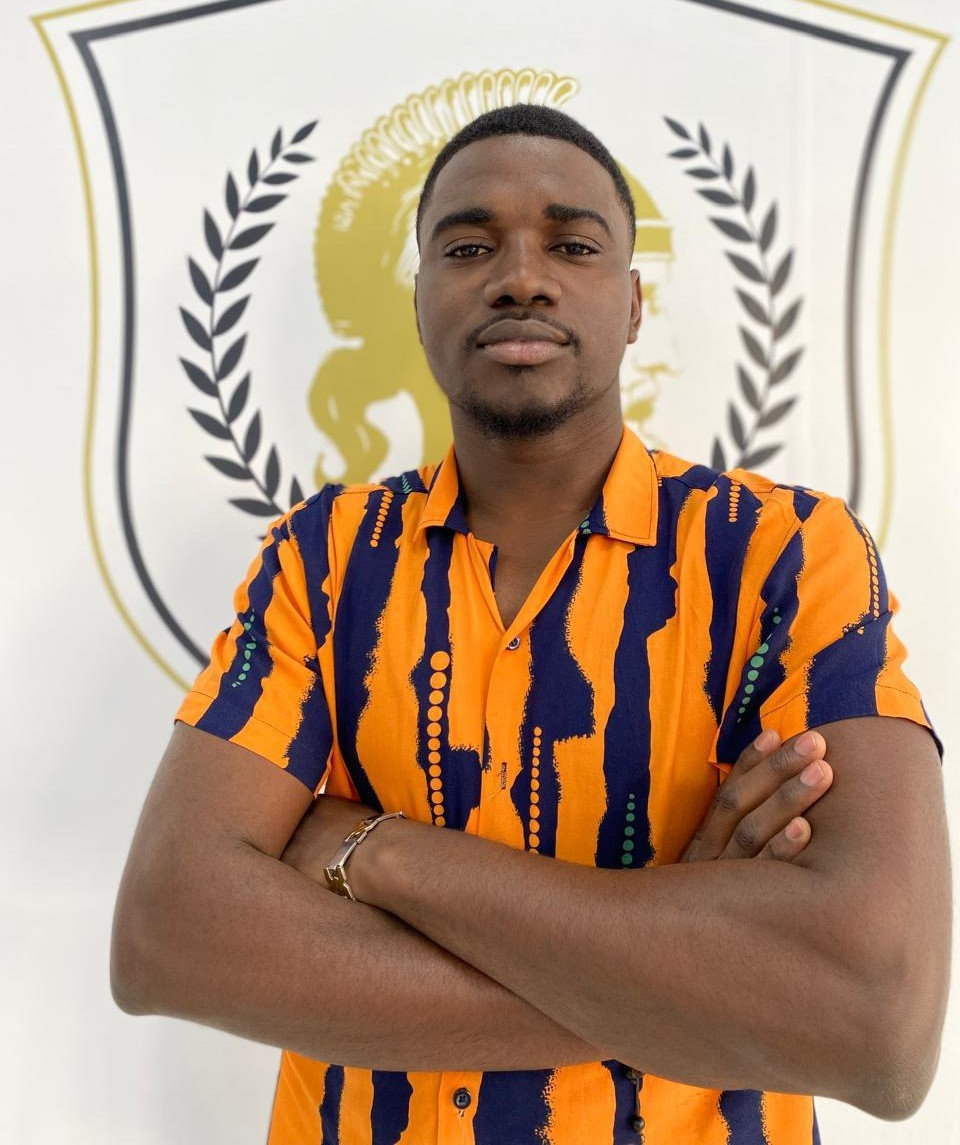
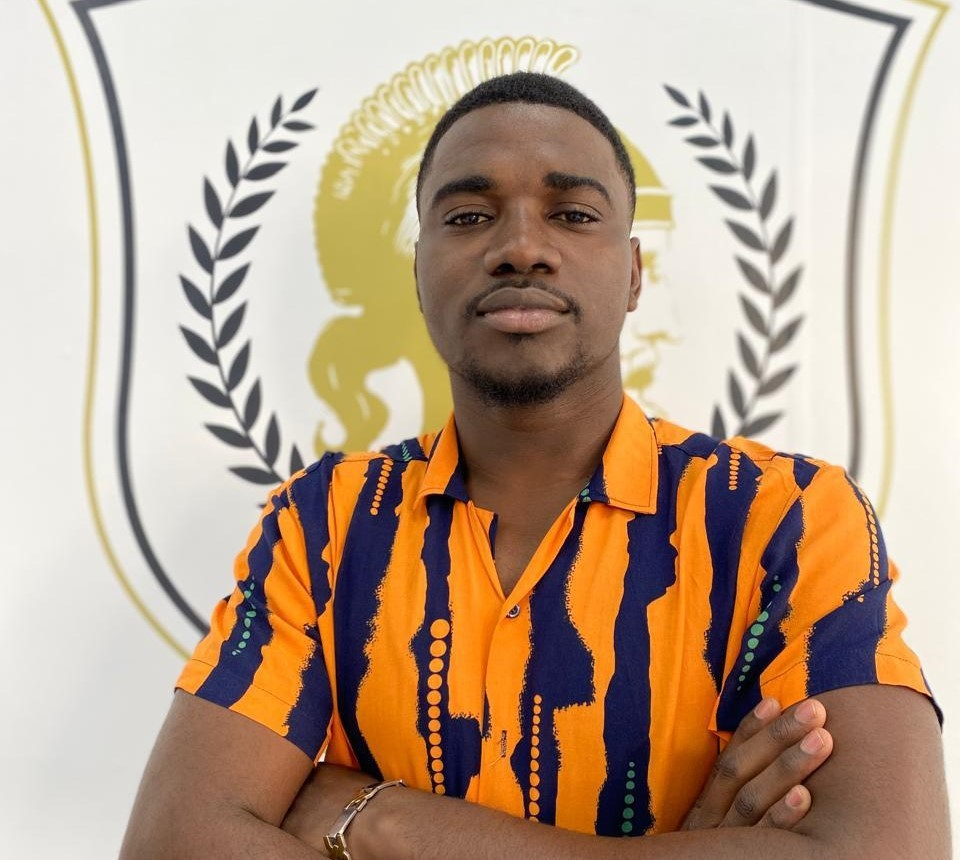
finalisation

diff --git a/src/components/About.jsx b/src/components/About.jsx
@@ -1,9 +1,12 @@
 import { FiBook, FiTarget, FiUsers } from "react-icons/fi";
-
+import Omar from "../assets/OMAR.jpg";
+import Oumou from "../assets/Oumou.jpg";
+import Ether from "../assets/Esther.jpg";
+import Martial from "../assets/Martial1.jpg";
 const About = () => {
   return (
     <section id="about" className="bg-green-100 py-16 ">
-      <div className="container mx-auto px-4">
+      <div className="container mx-auto px-4 mt-20">
         <h2 className="text-3xl md:text-4xl font-bold text-center mb-8 text-black uppercase">
           À propos de nous
         </h2>
@@ -47,29 +50,32 @@ const About = () => {
           </h3>
 
           {/* Liste des Membres de l'Équipe */}
-          <div className="grid md:grid-cols-3 sm:grid-cols-1 gap-8">
+          <div className="grid md:grid-cols-2 sm:grid-cols-1 gap-8">
             {/* Membre 1 */}
             <div className="bg-green-200 p-6 rounded-lg shadow-xl text-center">
               <img
-                src="../assets/OMAR.jpg"
-                alt="Membre 1"
-                className="w-24 h-24 mx-auto rounded-full mb-4"
+                src={Martial}
+                alt="Membre 4"
+                className="w-45 h-45 mx-auto rounded-full mb-4"
               />
-              <h4 className="text-xl font-semibold">Omar</h4>
-              <p className="text-gray-600">CEO et Co-Fondateur</p>
+              <h4 className="text-xl font-semibold">Martial De-Paul</h4>
+              <p className="text-gray-600">
+                CEO et Co-Fondateur et Responsable IT
+              </p>
               <p className="text-gray-700 mt-2">
-                Omar est passionné par l&apos;IOT par les technologies durables
-                et dirige YP avec une vision claire de l&apos;innovation
-                agricole.
+                Martial est responsable de la mise en œuvre des solutions
+                techniques d&apos;irrigation intelligente dans les exploitations
+                agricoles.
               </p>
             </div>
 
             {/* Membre 2 */}
+
             <div className="bg-green-200 p-6 rounded-lg shadow-xl text-center">
               <img
-                src="../assets/Oumou.jpg"
+                src={Oumou}
                 alt="Membre 2"
-                className="w-24 h-24 mx-auto rounded-full mb-4"
+                className="w-50 h-50 mx-auto rounded-full mb-4"
               />
               <h4 className="text-xl font-semibold">Oumou Coulibaly</h4>
               <p className="text-gray-600">Resposable Marketing</p>
@@ -83,33 +89,31 @@ const About = () => {
             {/* Membre 3 */}
             <div className="bg-green-200 p-6 rounded-lg shadow-xl text-center">
               <img
-                src="../assets/Esther.jpg"
+                src={Omar}
+                alt="Membre 1"
+                className="w-50 h-50 mx-auto rounded-full mb-4"
+              />
+              <h4 className="text-xl font-semibold">Omar</h4>
+              <p className="text-gray-600">CEO et Co-Fondateur</p>
+              <p className="text-gray-700 mt-2">
+                Omar est passionné par l&apos;IOT par les technologies durables
+                et dirige YP avec une vision claire de l&apos;innovation
+                agricole.
+              </p>
+            </div>
+
+            {/* Membre 4 (en dessous du deuxième membre sur les grands écrans) */}
+            <div className="bg-green-200 p-6 rounded-lg shadow-xl text-center">
+              <img
+                src={Ether}
                 alt="Membre 3"
-                className="w-24 h-24 mx-auto rounded-full mb-4"
+                className="w-50 h-50 mx-auto rounded-full mb-4"
               />
               <h4 className="text-xl font-semibold"> Yaouno Esther Togo </h4>
               <p className="text-gray-600">Chef de Produit</p>
               <p className="text-gray-700 mt-2">
                 Yaouno est responsable de la direction stratégique et du
                 développement des differentes campagnes.
-              </p>
-            </div>
-
-            {/* Membre 4 (en dessous du deuxième membre sur les grands écrans) */}
-            <div className="bg-green-200 p-6 rounded-lg shadow-xl text-center md:col-span-3">
-              <img
-                src="../assets/Martial1.jpg"
-                alt="Membre 4"
-                className="w-24 h-24 mx-auto rounded-full mb-4"
-              />
-              <h4 className="text-xl font-semibold">Martial De-Paul</h4>
-              <p className="text-gray-600">
-                CEO et Co-Fondateur et Responsable IT
-              </p>
-              <p className="text-gray-700 mt-2">
-                Martial est responsable de la mise en œuvre des solutions
-                techniques d&apos;irrigation intelligente dans les exploitations
-                agricoles.
               </p>
             </div>
           </div>

diff --git a/src/components/Navigation.jsx b/src/components/Navigation.jsx
@@ -1,5 +1,6 @@
 import { useState } from "react";
 import { FiHome, FiInfo, FiTool, FiMail, FiMenu, FiX } from "react-icons/fi";
+import Logo from "../assets/logo.png";
 
 const Navbar = () => {
   const [isMenuOpen, setIsMenuOpen] = useState(false);
@@ -10,8 +11,8 @@ const Navbar = () => {
         {/* Logo et Titre */}
         <div className="flex items-center">
           <a href="/">
-            <h1 className="text-2xl font-bold flex items-center">
-              <img src="./src/assets/logo.png" className="size-12" alt="logo" />{" "}
+            <h1 className="text-2xl font-bold flex items-center ">
+              <img src={Logo} className="size-10" alt="logo" />{" "}
             </h1>
           </a>
         </div>

diff --git a/index.html b/index.html
@@ -5,8 +5,7 @@
     <link rel="icon" type="image" href="/public/logo.png" />
     <meta name="viewport" content="width=device-width, initial-scale=1.0" />
     <link href="./output.css" rel="stylesheet" />
-    <base href="/" />
-    <title>Smart Irrigation</title>
+    <title>Young Plante</title>
   </head>
   <body>
     <div id="root"></div>

diff --git a/src/components/Contact.jsx b/src/components/Contact.jsx
@@ -1,7 +1,7 @@
 const Contact = () => {
   return (
     <section id="contact" className="bg-green-100 py-16 ">
-      <div className="container mx-auto px-4">
+      <div className="container mx-auto px-4 mt-10">
         <h2 className="text-3xl md:text-4xl font-bold text-center mb-8">
           Contactez-nous
         </h2>
